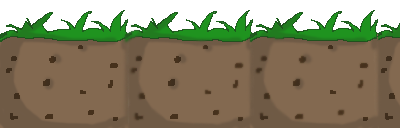
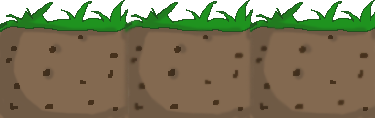
Random candles, checks collision to candles, fix the boundry box

diff --git a/src/angryflappybird/AngryFlappyBird.java b/src/angryflappybird/AngryFlappyBird.java
@@ -35,6 +35,7 @@ public class AngryFlappyBird extends Application {
     // game components
     private Sprite blob;
     private ArrayList<Sprite> floors;
+    private ArrayList<Sprite> candles;
     
     // game flags
     private boolean CLICKED, GAME_START, GAME_OVER;
@@ -42,7 +43,11 @@ public class AngryFlappyBird extends Application {
     // scene graphs
     private Group gameScene;	 // the left half of the scene
     private VBox gameControl;	 // the right half of the GUI (control)
-    private GraphicsContext gc;		
+    private GraphicsContext gc;	
+    private GraphicsContext bgc;
+    private GraphicsContext cgc;	
+    
+    Sprite candle;
     
 	// the mandatory main method 
     public static void main(String[] args) {
@@ -99,18 +104,25 @@ public class AngryFlappyBird extends Application {
         GAME_OVER = false;
         GAME_START = false;
         floors = new ArrayList<>();
+        candles = new ArrayList<>();
         
     	if(firstEntry) {
     		// create two canvases
             Canvas canvas = new Canvas(DEF.SCENE_WIDTH, DEF.SCENE_HEIGHT);
             gc = canvas.getGraphicsContext2D();
 
+            Canvas bcanvas = new Canvas(DEF.SCENE_WIDTH, DEF.SCENE_HEIGHT);
+            bgc = bcanvas.getGraphicsContext2D();
+            
+            Canvas ccanvas = new Canvas(DEF.SCENE_WIDTH, DEF.SCENE_HEIGHT);
+            cgc = canvas.getGraphicsContext2D();
+            
             // create a background
             ImageView background = DEF.IMVIEW.get("background");
             
             // create the game scene
             gameScene = new Group();
-            gameScene.getChildren().addAll(background, canvas);
+            gameScene.getChildren().addAll(background, canvas, bcanvas, ccanvas);
     	}
     	
     	// initialize floor
@@ -119,16 +131,71 @@ public class AngryFlappyBird extends Application {
     		int posX = i * DEF.FLOOR_WIDTH;
     		int posY = DEF.SCENE_HEIGHT - DEF.FLOOR_HEIGHT;
     		
-    		Sprite floor = new Sprite(posX, posY, DEF.IMAGE.get("floor"));
+    		Sprite floor = new Sprite(posX, posY, DEF.IMAGE.get("floor1"));
     		floor.setVelocity(DEF.SCENE_SHIFT_INCR, 0);
     		floor.render(gc);
     		
     		floors.add(floor);
     	}
+    	
+    	/*
+    	// initialize candle
+    	int posY;
+    	Sprite candle;
+    	for(int i=0; i<DEF.CANDLE_COUNT; i++) {
+    		
+    		int posX = i * DEF.CANDLE_WIDTH;
+    		if ((i % 2 == 0) || (i % 3 == 0)) {
+    			posY = DEF.CANDLE_HEIGHT;
+    		} else {
+    			posY = DEF.SCENE_HEIGHT - DEF.FLOOR_HEIGHT - DEF.CANDLE_HEIGHT;
+    		}
+    		if (i % 7 == 0) {
+    			candle = new Sprite(posX, posY, DEF.IMAGE.get("LongCandleBottom"));
+    		}
+    		
+    		
+    		candle.setVelocity(DEF.SCENE_SHIFT_INCR, 0);
+    		candle.render(gc);
+    		
+    		candles.add(candle);
+    	}
+    	*/
+    	
+    	// initialize candle
+    	
+    	
+    	for(int i=0; i<DEF.CANDLE_COUNT; i++) {
+    		
+    		int posA = i * DEF.UP_CANDLE_WIDTH;
+    		int posB = 0;
+			Sprite candle = new Sprite(posA, posB, DEF.IMAGE.get(DEF.randomCandlePic()));
+    		
+    		if (candle.getWidth() == 60) {
+    			candle.setVelocity(DEF.SCENE_SHIFT_INCR, 0);
+    		}
+    		else if (candle.getWidth() == 50) {
+    			if (candle.getHeight() == DEF.SHORT_CANDLE_HEIGHT) {
+    				posB = DEF.SCENE_HEIGHT - (195);
+    			}
+    			else if (candle.getHeight() == DEF.MIDDLE_CANDLE_HEIGHT) {
+    				posB = DEF.SCENE_HEIGHT - (225);
+    			}
+    			else {
+    				posB = DEF.SCENE_HEIGHT - (245);
+    			}
+    			candle.setPositionXY(posA, posB);
+    			candle.setVelocity(DEF.SCENE_SHIFT_INCR, 0);
+    		}
+    		candle.render(cgc);
+    		
+    		candles.add(candle);
+    	}
+    	
         
         // initialize blob
         blob = new Sprite(DEF.BLOB_POS_X, DEF.BLOB_POS_Y,DEF.IMAGE.get("blob0"));
-        blob.render(gc);
+        blob.render(bgc);
         
         // initialize timer
         startTime = System.nanoTime();
@@ -149,10 +216,13 @@ public class AngryFlappyBird extends Application {
     	     
     	     // clear current scene
     	     gc.clearRect(0, 0, DEF.SCENE_WIDTH, DEF.SCENE_HEIGHT);
+    	     bgc.clearRect(0, 0, DEF.SCENE_WIDTH, DEF.SCENE_HEIGHT);
 
     	     if (GAME_START) {
     	    	 // step1: update floor
     	    	 moveFloor();
+    	    	 
+    	    	 moveCandle();
     	    	 
     	    	 // step2: update blob
     	    	 moveBlob();
@@ -174,6 +244,19 @@ public class AngryFlappyBird extends Application {
     		}
     	 }
     	 
+    	 private void moveCandle() {
+     		
+     		for(int i=0; i<DEF.CANDLE_COUNT; i++) {
+     			if (candles.get(i).getPositionX() <= -DEF.CANDLE_COUNT) {
+    				double nextX = candles.get((i+1)%DEF.CANDLE_COUNT).getPositionX() + DEF.UP_CANDLE_WIDTH;
+    	        	double nextY = DEF.SHORT_CANDLE_HEIGHT;
+    	        	candles.get(i).setPositionXY(nextX, nextY);
+     			}
+     			candles.get(i).render(cgc);
+     			candles.get(i).update(DEF.SCENE_SHIFT_TIME);
+     		}
+     	 }
+    	 
     	 // step2: update blob
     	 private void moveBlob() {
     		 
@@ -186,6 +269,7 @@ public class AngryFlappyBird extends Application {
 				imageIndex = Math.floorMod(imageIndex, DEF.BLOB_IMG_LEN);
 				blob.setImage(DEF.IMAGE.get("blob"+String.valueOf(imageIndex)));
 				blob.setVelocity(0, DEF.BLOB_FLY_VEL);
+				//bgc.rotate(0.05);  For Rotation
 			}
 			// blob drops after a period of time without button click
 			else {
@@ -195,14 +279,19 @@ public class AngryFlappyBird extends Application {
 
 			// render blob on GUI
 			blob.update(elapsedTime * DEF.NANOSEC_TO_SEC);
-			blob.render(gc);
+			blob.render(bgc);
     	 }
     	 
     	 public void checkCollision() {
     		 
-    		// check collision  
+    		// check collision to floor
 			for (Sprite floor: floors) {
 				GAME_OVER = GAME_OVER || blob.intersectsSprite(floor);
+			}
+			
+			// check collision to candles
+			for (Sprite candle: candles) {
+				GAME_OVER = GAME_OVER || blob.intersectsSprite(candle);
 			}
 			
 			// end the game when blob hit stuff

diff --git a/src/angryflappybird/Defines.java b/src/angryflappybird/Defines.java
@@ -34,6 +34,14 @@ public class Defines {
     final int FLOOR_HEIGHT = 100;
     final int FLOOR_COUNT = 2;
     
+    // coefficients related to the candles
+    final int UP_CANDLE_WIDTH = 60;
+    final int BOTTOM_CANDLE_WIDTH = 50;
+    final int LONG_CANDLE_HEIGHT = 170;
+    final int MIDDLE_CANDLE_HEIGHT = 150;
+    final int SHORT_CANDLE_HEIGHT = 120;
+    final int CANDLE_COUNT = 500;
+    
     // coefficients related to time
     final int SCENE_SHIFT_TIME = 5;
     final double SCENE_SHIFT_INCR = -0.4;
@@ -45,7 +53,7 @@ public class Defines {
     // coefficients related to media display
     final String STAGE_TITLE = "Angry Flappy Bird";
 	private final String IMAGE_DIR = "../resources/images/";
-    final String[] IMAGE_FILES = {"background","blob0", "blob1", "blob2", "blob3", "floor"};
+    final String[] IMAGE_FILES = {"background","blob0", "blob1", "blob2", "blob3", "floor1", "ShortCandleUp", "MiddleCandleUp", "LongCandleUp", "ShortCandleBottom", "MiddleCandleBottom", "LongCandleBottom"};
 
     final HashMap<String, ImageView> IMVIEW = new HashMap<String, ImageView>();
     final HashMap<String, Image> IMAGE = new HashMap<String, Image>();
@@ -64,6 +72,24 @@ public class Defines {
 			}
 			else if (i == 1 || i == 2 || i == 3 || i == 4){
 				img = new Image(pathImage(IMAGE_FILES[i]), BLOB_WIDTH, BLOB_HEIGHT, false, false);
+			}
+			else if (i == 6){
+				img = new Image(pathImage(IMAGE_FILES[i]), UP_CANDLE_WIDTH, SHORT_CANDLE_HEIGHT, false, false);
+			}
+			else if (i == 7){
+				img = new Image(pathImage(IMAGE_FILES[i]), UP_CANDLE_WIDTH, MIDDLE_CANDLE_HEIGHT, false, false);
+			}
+			else if (i == 8){
+				img = new Image(pathImage(IMAGE_FILES[i]), UP_CANDLE_WIDTH, LONG_CANDLE_HEIGHT, false, false);
+			}
+			else if (i == 9){
+				img = new Image(pathImage(IMAGE_FILES[i]), BOTTOM_CANDLE_WIDTH, SHORT_CANDLE_HEIGHT, false, false);
+			}
+			else if (i == 10){
+				img = new Image(pathImage(IMAGE_FILES[i]), BOTTOM_CANDLE_WIDTH, MIDDLE_CANDLE_HEIGHT, false, false);
+			}
+			else if (i == 11){
+				img = new Image(pathImage(IMAGE_FILES[i]), BOTTOM_CANDLE_WIDTH, LONG_CANDLE_HEIGHT, false, false);
 			}
 			else {
 				img = new Image(pathImage(IMAGE_FILES[i]), SCENE_WIDTH, SCENE_HEIGHT, false, false);
@@ -90,4 +116,33 @@ public class Defines {
     	IMAGE.put(filepath, new Image(pathImage(filepath), width, height, false, false));
     	return IMAGE.get(filepath);
     }
+	
+	public String randomCandlePic() {
+		int max = 6;
+        int min = 1;
+        int range = max - min + 1;
+        int random = 7;
+        while (random > 6) {
+        	random = (int)(Math.random() * range) + min;
+        }
+        if (random == 1) {
+        	return ("ShortCandleUp");
+        }
+        else if (random == 2) {
+        	return ("MiddleCandleUp");
+        }
+        else if (random == 3) {
+        	return ("LongCandleUp");
+        }
+        else if (random == 4) {
+        	return ("ShortCandleBottom");
+        }
+        else if (random == 5) {
+        	return ("MiddleCandleBottom");
+        }
+        else if (random == 6) {
+        	return ("LongCandleBottom");
+        }
+        return "MiddleCandleUp";
+	}
 }

diff --git a/src/angryflappybird/Sprite.java b/src/angryflappybird/Sprite.java
@@ -69,6 +69,10 @@ public class Sprite {
     public double getWidth() {
         return width;
     }
+    
+    public double getHeight() {
+        return height;
+    }
 
     public void render(GraphicsContext gc) {
         gc.drawImage(image, positionX, positionY);
@@ -81,6 +85,16 @@ public class Sprite {
     public boolean intersectsSprite(Sprite s) {
         return s.getBoundary().intersects(this.getBoundary());
     }
+    
+    /*
+    public Rectangle2D getCandleBoundary() {
+        return new Rectangle2D((positionX-15), (positionY-15), (width/2), height);
+    }
+    
+    public boolean intersectsCandleSprite(Sprite s) {
+        return s.getBoundary().intersects(this.getCandleBoundary());
+    }
+    */
 
     public void update(double time) {
         positionX += velocityX * time;
